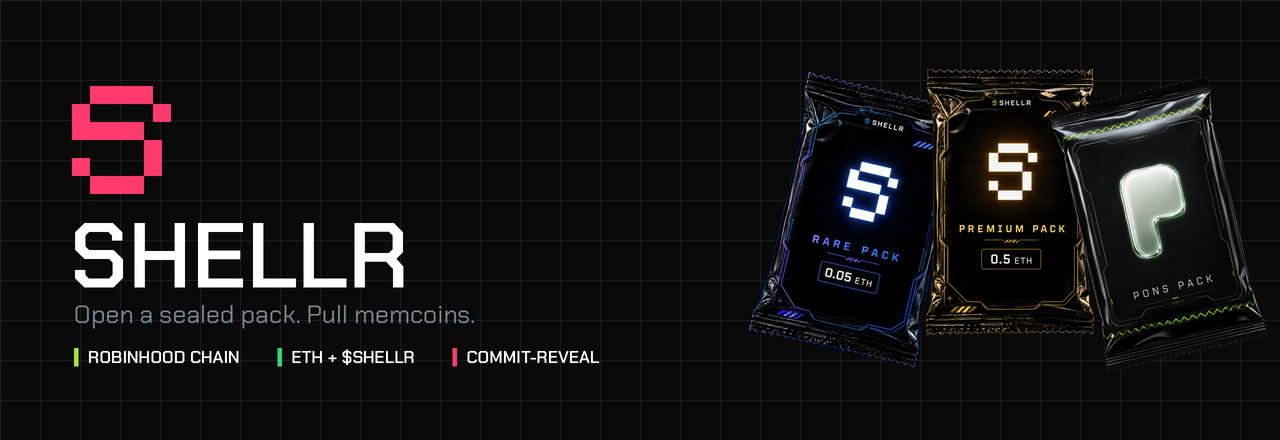
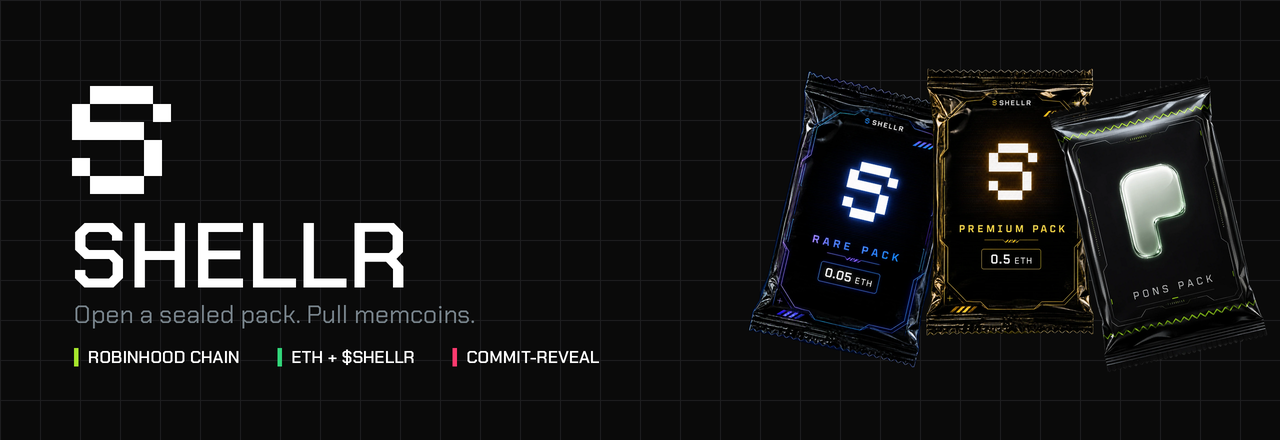
White mark, and stock packs on the profile
The mark is white on the packs themselves; pink stays on the accent bars.

Changed region(s): [[0.0312, 0.1773, 0.1562, 0.4432]]

diff --git a/profile/README.md b/profile/README.md
@@ -60,6 +60,7 @@ token and funds the pack out of its own bankroll instead of swapping.
 | [**shellr-web**](https://github.com/Shellr-Packs/shellr-web) | shellr.trade. The pack-opening theatre, the vault, staking, the stock desk. | Next.js 16, wagmi, three.js |
 | [**shellr-keeper**](https://github.com/Shellr-Packs/shellr-keeper) | Keeps the seed queue full and reveals every pack. One process, no database. | Node 20, viem, Railway |
 | [**shellr-sdk**](https://github.com/Shellr-Packs/shellr-sdk) | Reads, calldata, and `verifyPack` - recompute a settled pack and check it. | TypeScript, viem |
+| [**shellr-stock-packs**](https://github.com/Shellr-Packs/shellr-stock-packs) | One tokenized share per pack, routed through Voxelithic's book. | TypeScript, viem |
 
 The one worth reading first is **shellr-sdk**. It contains a mirror of the
 contract's draw, which means the fairness claim above is something you can run
@@ -93,10 +94,31 @@ Robinhood Chain mainnet, chain ID **4663**.
 | ShellrStaking | [`0xee341fb06627c650e45552ffce5159e7d19e2506`](https://robinhoodchain.blockscout.com/address/0xee341fb06627c650e45552ffce5159e7d19e2506) |
 | $SHELLR | [`0x77a719b0f3e7072fc80ed5d67f9aaa580b245462`](https://robinhoodchain.blockscout.com/address/0x77a719b0f3e7072fc80ed5d67f9aaa580b245462) |
 
-**Stock Packs** fill through [Voxelithic Protocol](https://voxelithic.xyz)'s
-router rather than a Uniswap pool, because tokenized equities on this chain do
-not have deep single-pool liquidity. One random symbol per pack, currently NVDA,
-SPY, TSLA, AAPL, MSTR and COIN.
+### Stock Packs, built with Voxelithic
+
+The same mechanic, filled with one tokenized equity instead of nine memecoins.
+Currently NVDA, SPY, TSLA, AAPL, MSTR and COIN.
+
+We built these together with
+[**Voxelithic Protocol**](https://github.com/Voxelithicag), who run the
+liquidity layer for this chain - six venues read into one book. Tokenized
+equities here do not have the single-pool depth that would make a direct
+Uniswap path honest, so packs fill through
+[their router](https://github.com/Voxelithicag/contracts) instead.
+
+That collaboration also turned up the thing most likely to break an integration
+on this chain: **a ticker is not an identifier**. Thirty-nine contracts answer
+to a stock symbol that is not theirs, and the deepest of them holds over half a
+million dollars of liquidity while trading pennies a day. A pack that resolved
+tickers by searching an indexer would eventually drop one of those instead of
+the share you paid for, and nothing on the explorer would look wrong. So nothing
+does: every address comes from
+[`voxelithic-interfaces`](https://github.com/Voxelithicag/interfaces), which is
+generated from the router's own configuration and checked against the chain
+before it is published.
+
+The write-up, including what did not work, is in
+[shellr-stock-packs](https://github.com/Shellr-Packs/shellr-stock-packs#built-with-voxelithic-protocol).
 
 ---
 
